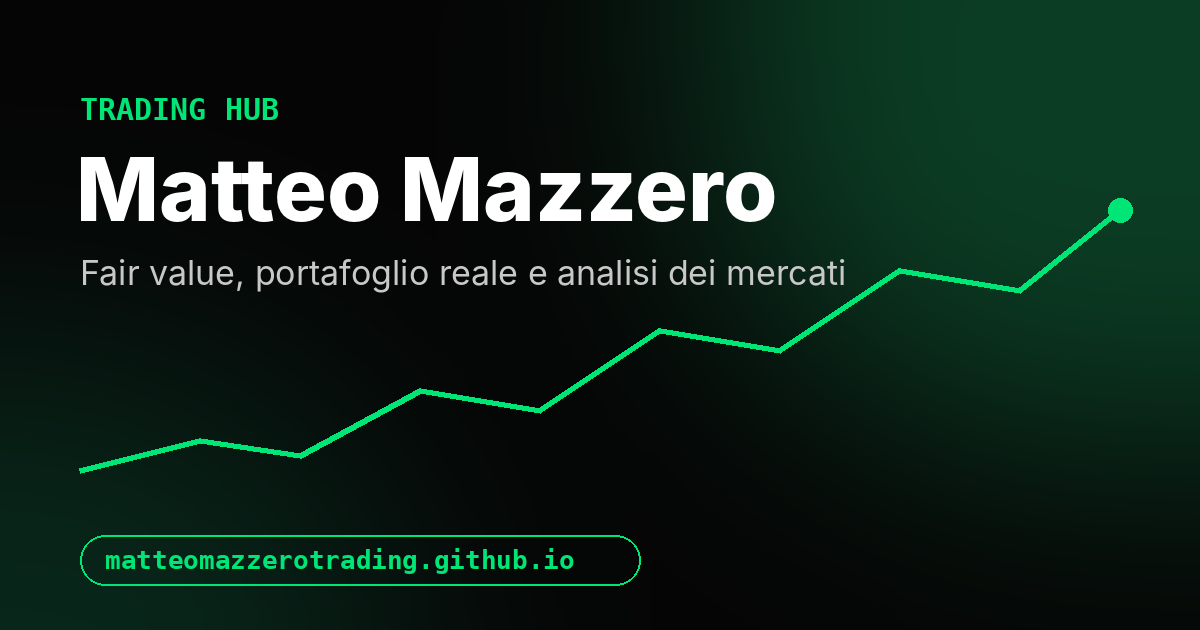
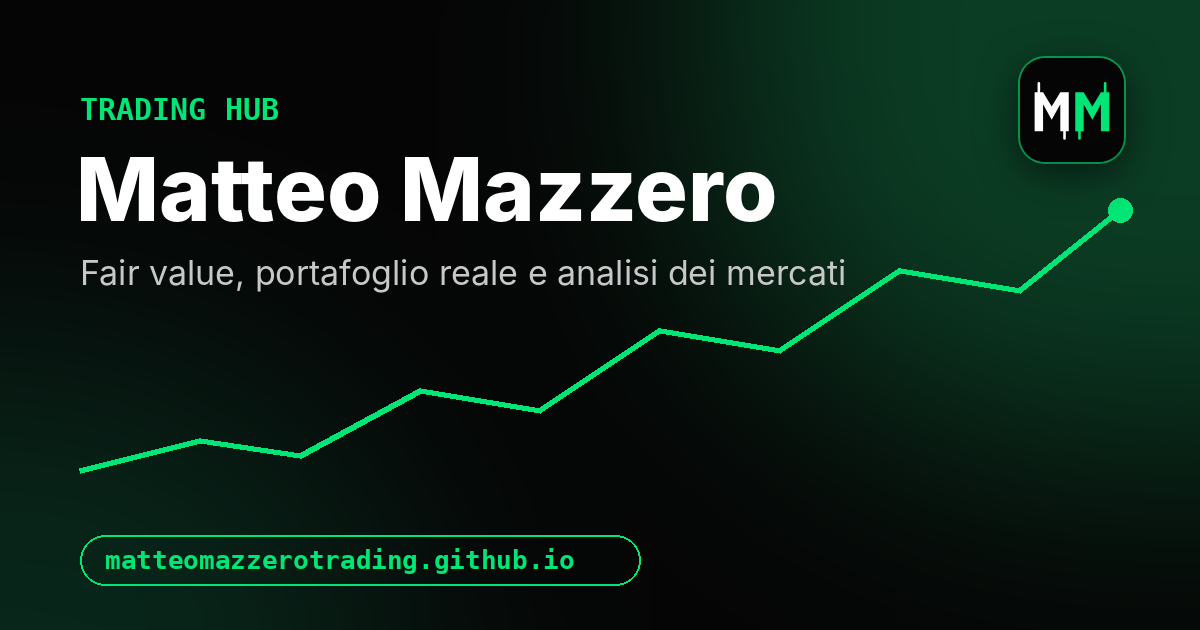
Nuova icona anche nell'intestazione delle pagine e nell'immagine di anteprima dei link
Claude-Session: https://claude.ai/code/session_014GfKhjQhLgT1NP7pfgPn1n

Changed region(s): [[0.8325, 0.0905, 0.9558, 0.2714]]

diff --git a/index.html b/index.html
@@ -80,7 +80,8 @@
             display: flex; justify-content: space-between; align-items: center;
             padding: 0 40px; box-sizing: border-box; z-index: 1000;
         }
-        .navbar-logo { color: #fff; font-size: 1.4em; font-weight: 800; text-decoration: none; letter-spacing: -0.5px; }
+        .navbar-logo { color: #fff; font-size: 1.4em; font-weight: 800; text-decoration: none; letter-spacing: -0.5px; display: inline-flex; align-items: center; gap: 8px; }
+        .navbar-logo img { display: block; border-radius: 9px; box-shadow: 0 0 0 1px rgba(0,230,118,0.45); }
         .navbar-logo span { color: var(--brand-green); text-shadow: 0 0 15px var(--brand-glow); }
         .nav-links { display: flex; gap: 20px; flex-wrap: wrap; align-items: center;}
         .nav-link { color: var(--text-main); text-decoration: none; font-weight: 500; font-size: 0.9em; transition: 0.3s; }
@@ -486,7 +487,7 @@
     <div id="toast-container"></div>
 
     <nav class="navbar">
-        <a href="#" class="navbar-logo">MM<span>Trading</span></a>
+        <a href="#" class="navbar-logo" aria-label="MM Trading"><img src="favicon.svg" alt="" width="34" height="34"><span>Trading</span></a>
         <div class="nav-links">
             <a href="#editoriale" class="nav-link">Editoriale</a>
             <a href="#portfolio" class="nav-link">Il mio portafoglio</a>
